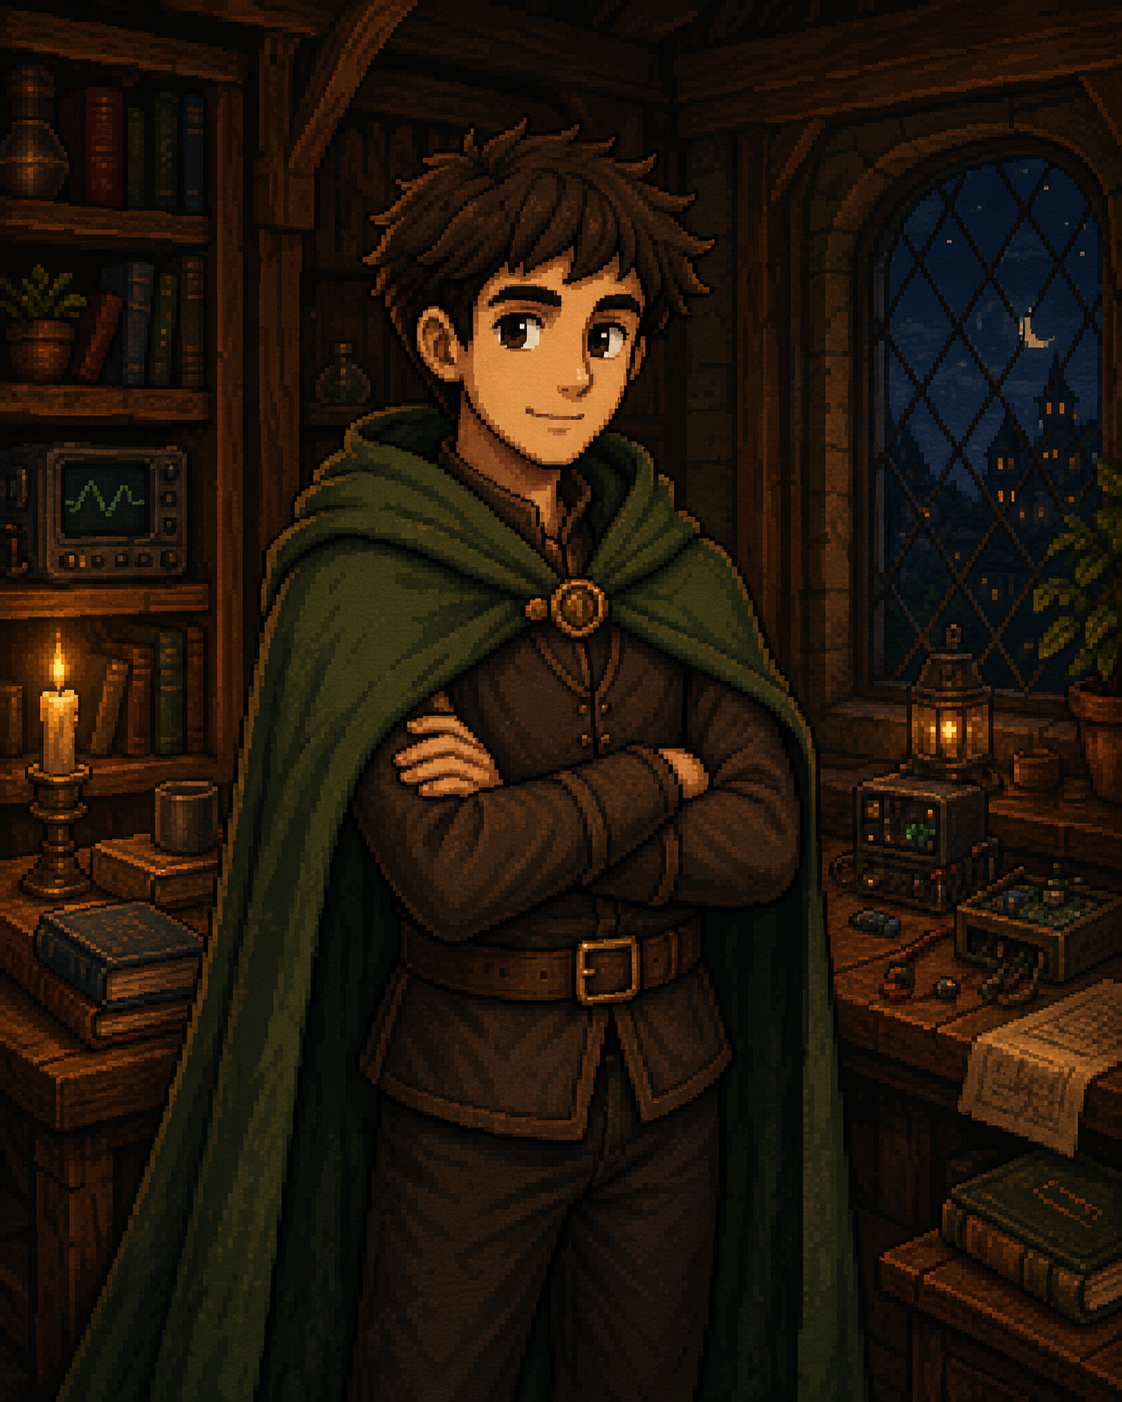
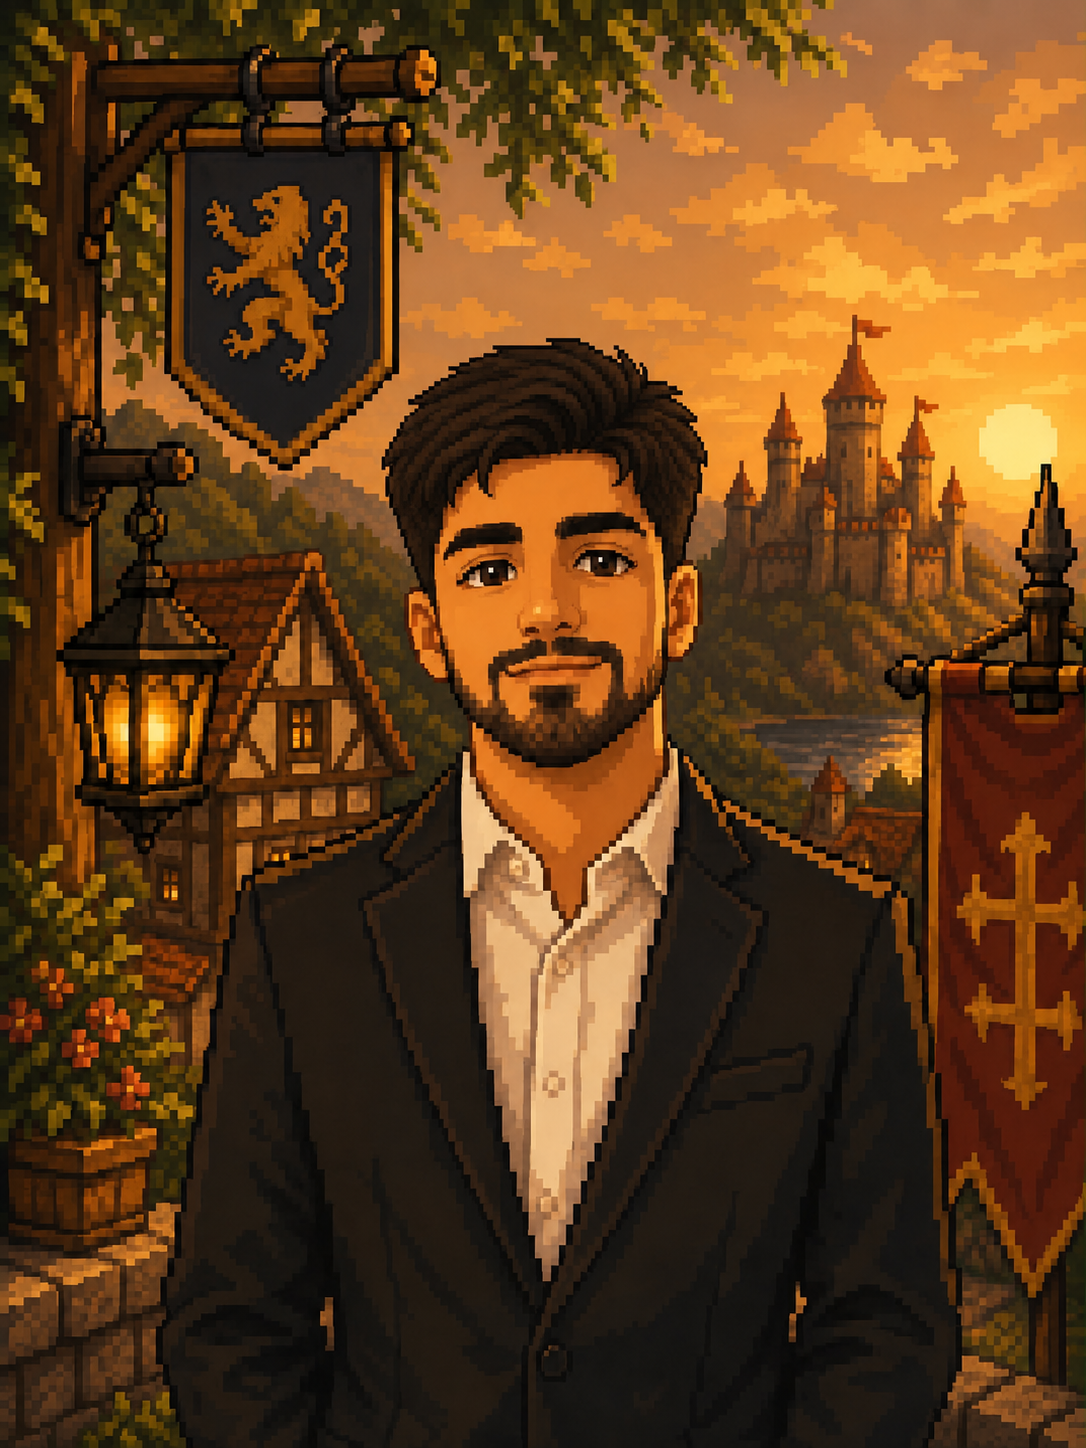
Add new portrait image and animation

diff --git a/src/styles.css b/src/styles.css
@@ -4,6 +4,18 @@
   font-display: swap;
 }
 
+@property --portrait-reveal-radius {
+  syntax: "<length-percentage>";
+  inherits: true;
+  initial-value: 0px;
+}
+
+@property --portrait-reveal-feather {
+  syntax: "<length>";
+  inherits: true;
+  initial-value: 0px;
+}
+
 :root {
   color-scheme: dark;
   --ink: #120e0b;
@@ -231,7 +243,10 @@ img {
 .pixel-button {
   --button-bg: linear-gradient(180deg, #f0bd4d, #c88a2f);
   --button-color: #21140c;
+  --button-edge: #f6d883;
+  --button-shadow: #3d2617;
   position: relative;
+  isolation: isolate;
   min-height: 48px;
   padding: 11px 22px;
   display: inline-flex;
@@ -239,47 +254,70 @@ img {
   justify-content: center;
   gap: 12px;
   color: var(--button-color);
-  background: var(--button-bg);
-  border: 2px solid #f6d883;
-  box-shadow: 0 0 0 3px #57351f, 0 6px 0 #3d2617, 0 10px 24px rgba(0, 0, 0, 0.34), inset 0 0 0 1px rgba(67, 38, 17, 0.55);
+  background: transparent;
+  border: 0;
   font-family: var(--pixel);
   font-size: 19px;
   line-height: 1;
   letter-spacing: 0.04em;
   text-decoration: none;
   cursor: pointer;
-  overflow: hidden;
-  clip-path: polygon(6px 0, calc(100% - 6px) 0, 100% 6px, 100% calc(100% - 6px), calc(100% - 6px) 100%, 6px 100%, 0 calc(100% - 6px), 0 6px);
-  transition: transform 120ms ease, filter 120ms ease, box-shadow 120ms ease;
+  filter:
+    drop-shadow(0 5px 0 var(--button-shadow))
+    drop-shadow(0 9px 12px rgba(0, 0, 0, 0.3));
+  transition: transform 120ms ease, filter 120ms ease;
 }
 
 .pixel-button::before {
   content: "";
   position: absolute;
-  top: -35%;
-  bottom: -35%;
-  left: -45%;
-  width: 28%;
-  pointer-events: none;
-  background: linear-gradient(90deg, transparent, rgba(255, 245, 208, 0.42), transparent);
-  transform: skewX(-18deg);
-  transition: left 420ms ease;
+  z-index: -2;
+  inset: 0;
+  background: var(--button-edge);
+  clip-path: polygon(
+    6px 0,
+    calc(100% - 6px) 0,
+    100% 6px,
+    100% calc(100% - 6px),
+    calc(100% - 6px) 100%,
+    6px 100%,
+    0 calc(100% - 6px),
+    0 6px
+  );
 }
 
-.pixel-button:hover::before,
-.pixel-button:focus-visible::before {
-  left: 118%;
+.pixel-button::after {
+  content: "";
+  position: absolute;
+  z-index: -1;
+  inset: 2px;
+  pointer-events: none;
+  background: var(--button-bg);
+  clip-path: polygon(
+    4px 0,
+    calc(100% - 4px) 0,
+    100% 4px,
+    100% calc(100% - 4px),
+    calc(100% - 4px) 100%,
+    4px 100%,
+    0 calc(100% - 4px),
+    0 4px
+  );
 }
 
 .pixel-button:hover {
-  filter: brightness(1.12);
   transform: translateY(-2px);
-  box-shadow: 0 0 0 3px #57351f, 0 8px 0 #3d2617, 0 15px 30px rgba(0, 0, 0, 0.4), 0 0 24px rgba(255, 214, 107, 0.16);
+  filter:
+    brightness(1.1)
+    drop-shadow(0 7px 0 var(--button-shadow))
+    drop-shadow(0 13px 16px rgba(0, 0, 0, 0.36));
 }
 
 .pixel-button:active {
   transform: translateY(3px);
-  box-shadow: 0 0 0 3px #57351f, 0 2px 0 #3d2617;
+  filter:
+    brightness(1.02)
+    drop-shadow(0 2px 0 var(--button-shadow));
 }
 
 .pixel-button--small {
@@ -297,15 +335,15 @@ img {
 .pixel-button--dark {
   --button-bg: linear-gradient(180deg, #3d291d, #24160f);
   --button-color: var(--parchment-light);
-  border-color: var(--gold-deep);
-  box-shadow: 0 0 0 3px #130c09, 0 6px 0 #0e0906, inset 0 0 0 1px rgba(255, 214, 107, 0.12);
+  --button-edge: var(--gold-deep);
+  --button-shadow: #0e0906;
 }
 
 .pixel-button--ghost {
   --button-bg: rgba(23, 17, 13, 0.68);
   --button-color: #e5d7bd;
-  border-color: rgba(194, 139, 75, 0.65);
-  box-shadow: 0 0 0 2px rgba(36, 22, 15, 0.8), 0 5px 0 rgba(7, 5, 4, 0.85);
+  --button-edge: rgba(194, 139, 75, 0.72);
+  --button-shadow: rgba(7, 5, 4, 0.9);
 }
 
 .hero {
@@ -503,21 +541,62 @@ img {
 }
 
 .character-room {
+  --portrait-reveal-x: 70%;
+  --portrait-reveal-y: 70%;
+  --portrait-reveal-radius: 0px;
+  --portrait-reveal-feather: 0px;
   position: absolute;
   inset: 8% 9% 14%;
   overflow: hidden;
   border: 2px solid #5a3824;
   box-shadow: inset 0 0 28px rgba(0, 0, 0, 0.45);
+  cursor: crosshair;
+  isolation: isolate;
+  transition:
+    --portrait-reveal-radius 220ms cubic-bezier(0.22, 1, 0.36, 1),
+    --portrait-reveal-feather 220ms ease;
+}
+
+.character-room.is-revealing {
+  --portrait-reveal-radius: clamp(78px, 28%, 132px);
+  --portrait-reveal-feather: 12px;
 }
 
 .character-sprite {
+  position: absolute;
+  inset: 0;
   width: 100%;
   height: 100%;
   display: block;
   object-fit: cover;
   object-position: 50% 32%;
+  pointer-events: none;
+  user-select: none;
+}
+
+.character-photo {
+  z-index: 0;
+  image-rendering: auto;
+  filter: saturate(0.9) contrast(1.03) brightness(0.92);
+  transform: scale(1.002);
+}
+
+.character-pixel-portrait {
+  z-index: 1;
   image-rendering: pixelated;
   filter: saturate(0.88) contrast(1.04) brightness(0.92);
+  -webkit-mask-image: radial-gradient(
+    circle at var(--portrait-reveal-x) var(--portrait-reveal-y),
+    transparent 0 var(--portrait-reveal-radius),
+    #000 calc(var(--portrait-reveal-radius) + var(--portrait-reveal-feather))
+  );
+  mask-image: radial-gradient(
+    circle at var(--portrait-reveal-x) var(--portrait-reveal-y),
+    transparent 0 var(--portrait-reveal-radius),
+    #000 calc(var(--portrait-reveal-radius) + var(--portrait-reveal-feather))
+  );
+  -webkit-mask-repeat: no-repeat;
+  mask-repeat: no-repeat;
 }
 
 .character-name {
@@ -1863,6 +1942,5 @@ img {
   .reveal { opacity: 1; transform: none; }
   .star-field { transform: none !important; }
   .star { animation: none !important; opacity: 0.58; transform: none; }
-  .pixel-button::before { display: none; }
   .footer-campfire { animation: none !important; filter: drop-shadow(0 0 8px rgba(255, 190, 68, 0.42)); transform: none; }
 }

diff --git a/src/portfolio.js b/src/portfolio.js
@@ -9,6 +9,7 @@ const formStatus = document.querySelector("[data-form-status]");
 const hero = document.querySelector(".hero");
 const starField = document.querySelector(".star-field");
 const gameNote = document.querySelector("[data-game-note]");
+const portraitReveals = document.querySelectorAll("[data-portrait-reveal]");
 const backgroundElements = document.querySelectorAll("body > header, body > main, body > footer");
 const compactStarsQuery = window.matchMedia("(max-width: 780px)");
 const reducedMotionQuery = window.matchMedia("(prefers-reduced-motion: reduce)");
@@ -72,6 +73,38 @@ compactStarsQuery.addEventListener("change", createStarField);
 reducedMotionQuery.addEventListener("change", resetHeroParallax);
 hero?.addEventListener("pointermove", updateHeroParallax, { passive: true });
 hero?.addEventListener("pointerleave", resetHeroParallax);
+
+portraitReveals.forEach((portrait) => {
+  let portraitFrame = null;
+
+  const updatePortraitReveal = (event) => {
+    if (event.pointerType === "touch") return;
+
+    const bounds = portrait.getBoundingClientRect();
+    const revealX = Math.min(Math.max(event.clientX - bounds.left, 0), bounds.width);
+    const revealY = Math.min(Math.max(event.clientY - bounds.top, 0), bounds.height);
+
+    if (portraitFrame) cancelAnimationFrame(portraitFrame);
+    portraitFrame = requestAnimationFrame(() => {
+      portrait.style.setProperty("--portrait-reveal-x", `${revealX.toFixed(1)}px`);
+      portrait.style.setProperty("--portrait-reveal-y", `${revealY.toFixed(1)}px`);
+      portraitFrame = null;
+    });
+  };
+
+  portrait.addEventListener("pointerenter", (event) => {
+    if (event.pointerType === "touch") return;
+    updatePortraitReveal(event);
+    portrait.classList.add("is-revealing");
+  });
+  portrait.addEventListener("pointermove", updatePortraitReveal, { passive: true });
+  portrait.addEventListener("pointerleave", () => {
+    portrait.classList.remove("is-revealing");
+  });
+  portrait.addEventListener("pointercancel", () => {
+    portrait.classList.remove("is-revealing");
+  });
+});
 
 function setHeaderState() {
   header?.classList.toggle("is-scrolled", window.scrollY > 20);

diff --git a/index.html b/index.html
@@ -60,8 +60,9 @@
       <section class="about framed-section" id="about" aria-labelledby="about-title">
         <div class="section-shell about-grid">
           <div class="character-card reveal" aria-hidden="true">
-            <div class="character-room">
-              <img class="character-sprite" src="./rasit-pixel-portrait.png" width="1122" height="1402" alt="" />
+            <div class="character-room" data-portrait-reveal>
+              <img class="character-sprite character-photo" src="./personalphoto.jpeg" width="1536" height="2048" alt="" draggable="false" />
+              <img class="character-sprite character-pixel-portrait" src="./rasit-pixel-portrait.png" width="1086" height="1448" alt="" draggable="false" />
             </div>
             <span class="character-name">Character profile · Rasit</span>
           </div>
